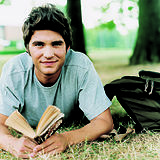
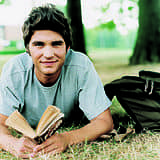
update images to picture elements

diff --git a/content/services.html b/content/services.html
@@ -18,7 +18,10 @@ title = "Services"
 
   <div class="row">
     <div class="col-lg-6 mb-4 d-flex chunk">
-      <img src="/images/troubleshooting-160x160.jpg" alt="">
+      <picture>
+        <source type="image/webp" width="160" height="160" srcset="/images/troubleshooting-160x160.webp">
+        <img alt="" width="160" height="160" src="/images/troubleshooting-160x160.jpg">
+      </picture>
       <div class="ms-md-3">
         <h2><b>TROUBLESHOOTING</b></h2>
         <div class="fs-6">Are you home educating and just need a little extra help with difficult concepts? I can fill in those gaps
@@ -26,7 +29,10 @@ title = "Services"
       </div>
     </div>
     <div class="col-lg-6 mb-4 d-flex chunk">
-      <img src="/images/test-prep-160x160.jpg" alt="">
+      <picture>
+        <source type="image/webp" width="160" height="160" srcset="/images/test-prep-160x160.webp">
+        <img alt="" width="160" height="160" src="/images/test-prep-160x160.jpg">
+      </picture>
       <div class="ms-md-3">
         <h2><b>TEST PREPARATION</b></h2>
         <div class="fs-6">Is your child about to take the PSAT, SAT or ACT where a high score can mean scholarship money? I can help prepare
@@ -37,7 +43,10 @@ title = "Services"
 
   <div class="row">
     <div class="col-lg-6 mb-4 d-flex chunk">
-      <img src="/images/co-operative-160x160.jpg" alt="">
+      <picture>
+        <source type="image/webp" width="160" height="160" srcset="/images/co-operative-160x160.webp">
+        <img alt="" width="160" height="160" src="/images/co-operative-160x160.jpg">
+      </picture>
       <div class="ms-md-3">
         <h2><b>CO-OPERATIVE INSTRUCTION</b></h2>
         <div class="fs-6">Are you home educating but don't feel capable of teaching math? I can take responsibility for that subject
@@ -45,7 +54,10 @@ title = "Services"
       </div>
     </div>
     <div class="col-lg-6 mb-4 d-flex chunk">
-      <img src="/images/personalized-160x160.jpg" alt="">
+      <picture>
+        <source type="image/webp" width="160" height="160" srcset="/images/personalized-160x160.webp">
+        <img alt="" width="160" height="160" src="/images/personalized-160x160.jpg">
+      </picture>
       <div class="ms-md-3">
         <h2><b>PERSONALIZED DIRECTION</b></h2>
         <div class="fs-6">Are you spending a lot of money for group classes in which your child must compete for the teacher's attention?
@@ -57,15 +69,21 @@ title = "Services"
 
   <div class="row">
     <div class="col-lg-6 mb-4 d-flex chunk">
-      <img src="/images/resistant-160x160.jpg" alt="">
+      <picture>
+        <source type="image/webp" width="160" height="160" srcset="/images/resistant-160x160.webp">
+        <img alt="" width="160" height="160" src="/images/resistant-160x160.jpg">
+      </picture>
       <div class="ms-md-3">
         <h2><b>RESISTANT PUPILS</b></h2>
         <div class="fs-6">Does your child resist your instruction or help with homework? Let me step in and alleviate his frustration.
           I can make learning interesting.</div>
       </div>
     </div>
-    <div class="col-lg-6 mb-4 d-flex chunk">
-      <img src="/images/advising-160x160.jpg" alt="">
+    <div class="col-lg-6 mb-4 d-flex chunk">      
+      <picture>
+        <source type="image/webp" width="160" height="160" srcset="/images/advising-160x160.webp">
+        <img alt="" width="160" height="160" src="/images/advising-160x160.jpg">
+      </picture>
       <div class="ms-md-3">
         <h2><b>HIGH SCHOOL ADVISING</b></h2>
         <div class="fs-6">Do you need help planning what your child's high school courses should look like? Do you need help making

diff --git a/layouts/index.html b/layouts/index.html
@@ -86,7 +86,10 @@
         </ul>
       </div>
       <div class="col-lg-6 mb-4">
-        <img class="img-fluid rounded" src="/images/services.jpg" alt="">
+        <picture class="img-fluid rounded">
+          <source type="image/webp" width="485" height="320" srcset="/images/services.webp">
+          <img alt="" width="485" height="320" src="/images/services.jpg">
+        </picture>
       </div>
     </div>
     <!-- /.row -->
